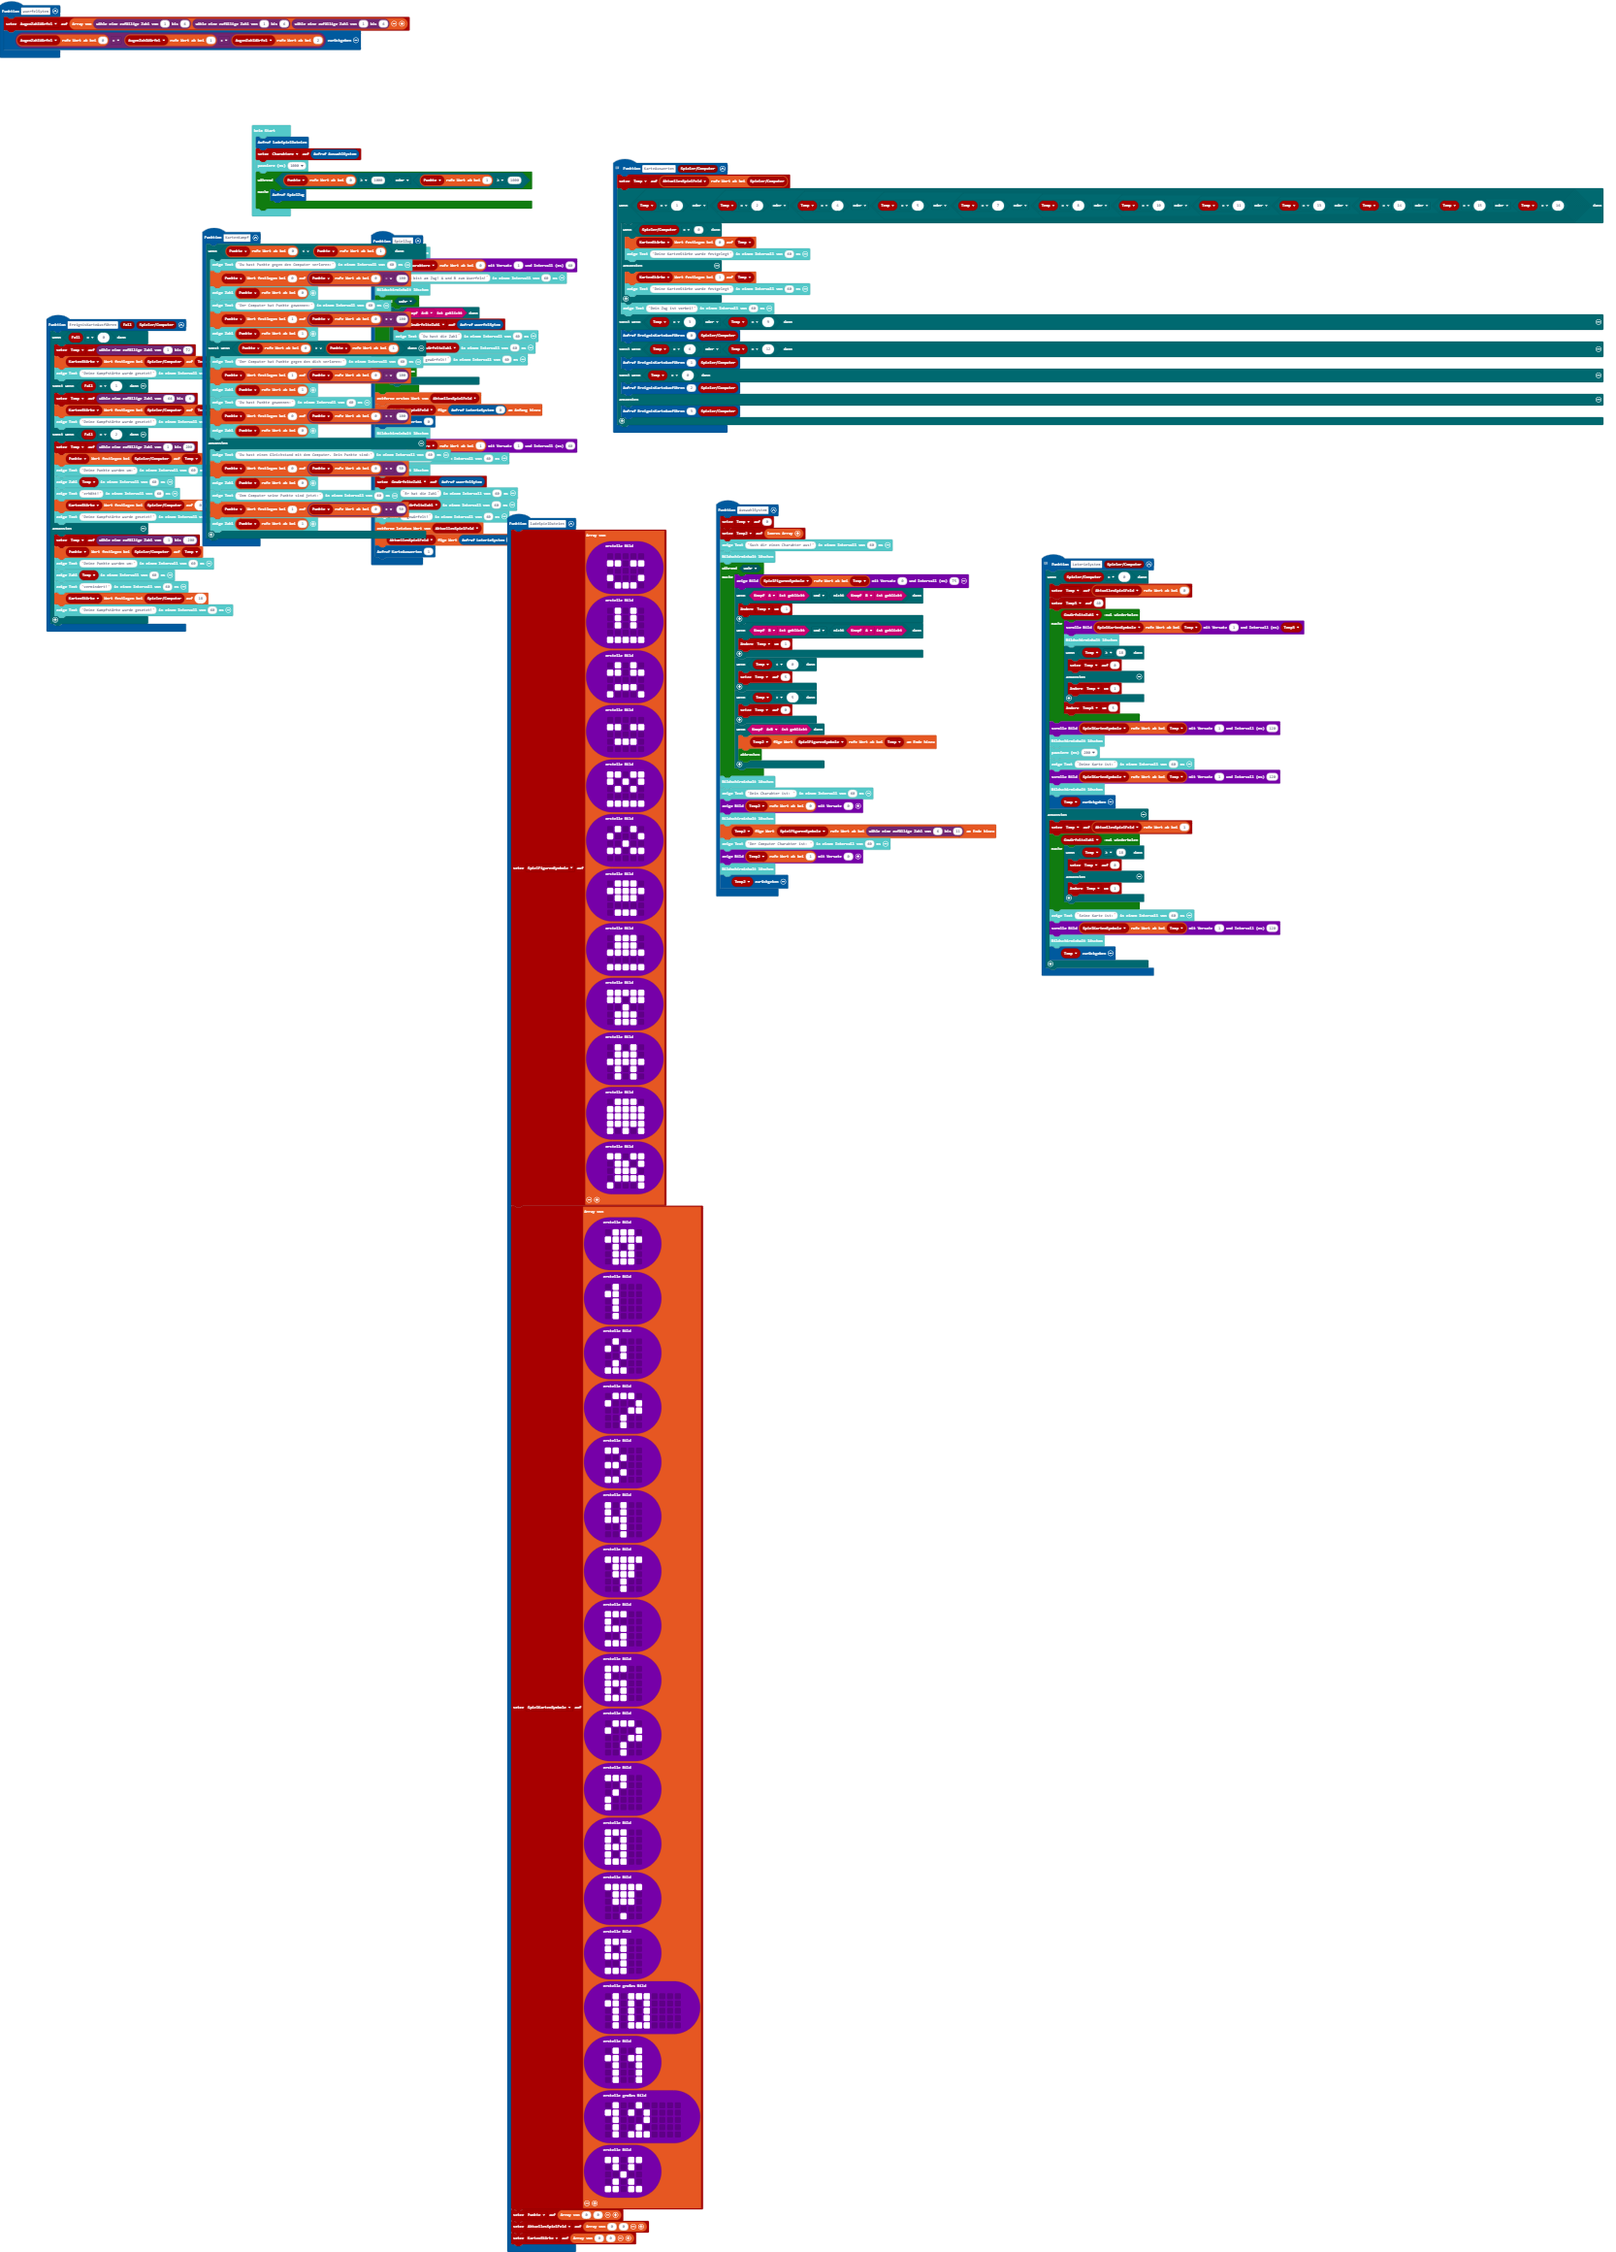
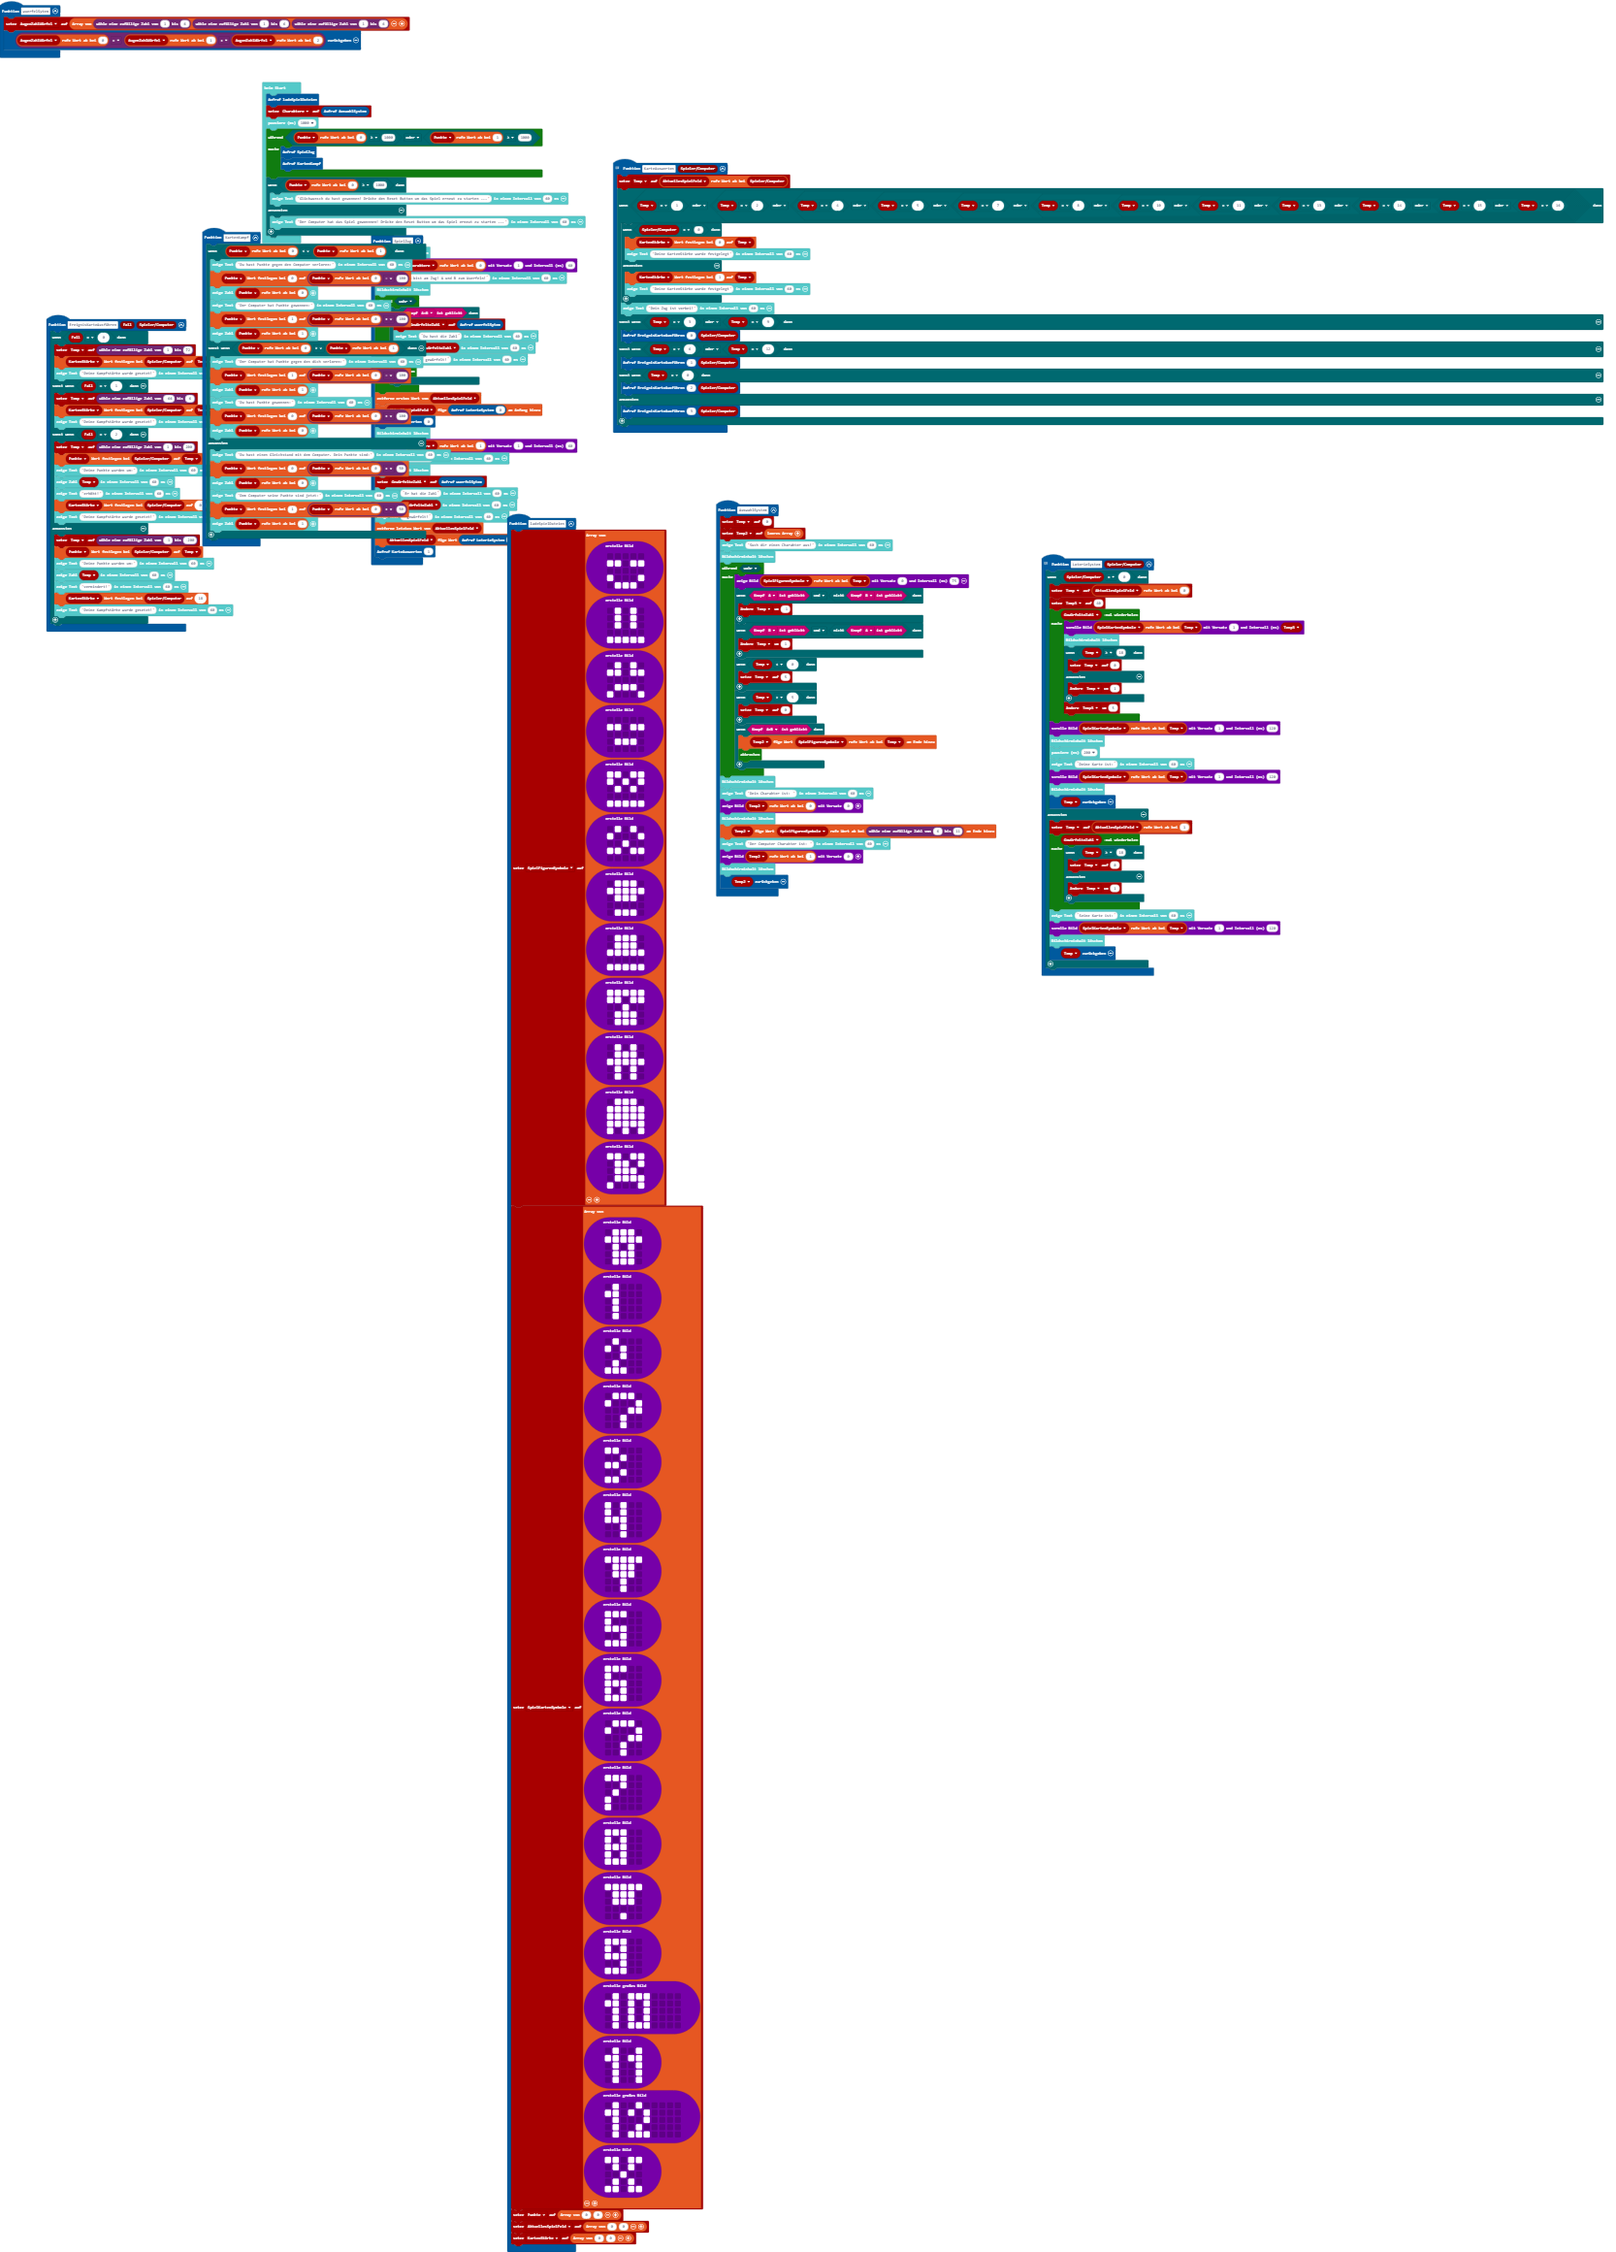
Aktualisiere main.blocks, main.ts

Changed region(s): [[0.1561, 0.031, 0.3745, 0.1241]]

diff --git a/main.ts b/main.ts
@@ -410,4 +410,10 @@ Charaktere = AuswahlSystem()
 basic.pause(1000)
 while (Punkte[0] >= 1000 || Punkte[1] >= 1000) {
     SpielZug()
+    KartenKampf()
+}
+if (Punkte[0] >= 1000) {
+    basic.showString("Glückwunsch du hast gewonnen! Drücke den Reset Button um das Spiel erneut zu starten ...", 60)
+} else {
+    basic.showString("Der Computer hat das Spiel gewonnnen! Drücke den Reset Button um das Spiel erneut zu starten ...", 60)
 }
